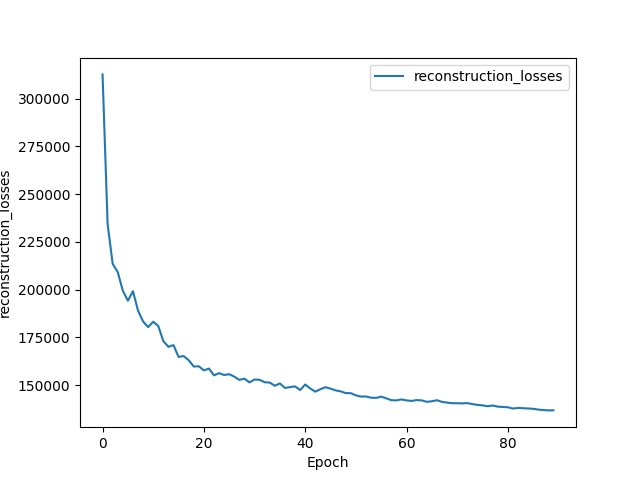
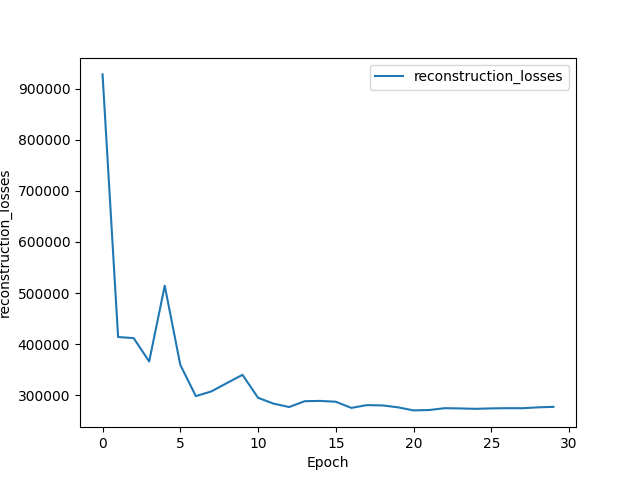
version with perceptual loss

diff --git a/source/functions/trainer.py b/source/functions/trainer.py
@@ -5,15 +5,16 @@ import time
 from torch.nn.parallel import DistributedDataParallel as DDP
 import matplotlib.pyplot as plt
 from torch.distributed import ReduceOp, reduce
-from .losses import beta_gaussian_kldiv, mse_loss,PerceptualLoss
+from .losses import gaussian_kldiv, mse_loss,PerceptualLoss
 
 class Trainer():
-    def __init__(self,data_loader,model,optimizer,scheduler,device,is_parallel=False,
+    def __init__(self,data_loader,model,optimizer,scheduler,beta_scheduler,device,is_parallel=False,
                  resume_from_checkpoint=False,checkpoint=None,output_path=None):
         self.data_loader=data_loader
         self.model=model
         self.optimizer=optimizer
         self.scheduler=scheduler
+        self.beta_scheduler=beta_scheduler
         self.device=device
         self.is_parallel=is_parallel
         self.checkpoint=checkpoint
@@ -55,12 +56,13 @@ class Trainer():
 
     def train(self,EPOCHS):
         for epoch in range(self.last_epoch,self.last_epoch+EPOCHS):
+            beta=self.beta_scheduler.get_beta(epoch)
             self.model.train()
-            self.train_epoch()
+            self.train_epoch(beta)
 
             self.model.eval()
             with torch.no_grad():
-                self.evaluate()
+                self.evaluate(beta)
 
                 if self.is_master_rank and (epoch%10==0 or epoch==self.last_epoch or epoch==self.last_epoch+EPOCHS-1):
                     self.record_losses(epoch)
@@ -72,21 +74,20 @@ class Trainer():
             self.save_checkpoint(EPOCHS)
                 
 
-    def train_epoch(self):
+    def train_epoch(self,beta):
         for _,data_point in enumerate(self.data_loader):
             image=data_point[0].to(self.device)
             label=data_point[1].to(self.device)
 
             generated_image,mu,log_var=self.model(image,label)
-            loss=mse_loss(image,generated_image)+beta_gaussian_kldiv(mu,log_var)+0.01*self.perceptual_loss_function(image,generated_image)
-
+            loss=mse_loss(image,generated_image)+beta*gaussian_kldiv(mu,log_var)+0.001*self.perceptual_loss_function(image,generated_image)
             self.optimizer.zero_grad()
 
             loss.backward()
 
             self.optimizer.step()
     
-    def evaluate(self):
+    def evaluate(self,beta):
         reconstruction_loss=0
         kl_divergence=0
         perceptual_loss=0
@@ -98,9 +99,9 @@ class Trainer():
             generated_image,mu,log_var=self.model(image,label)
 
             reconstruction_loss+=mse_loss(image,generated_image)
-            kl_divergence+=beta_gaussian_kldiv(mu,log_var)
+            kl_divergence+=gaussian_kldiv(mu,log_var)
             perceptual_loss+=self.perceptual_loss_function(image,generated_image)
-        
+
         avg_reconstruction_loss=reconstruction_loss/self.num_batches
         avg_kl_divergence=kl_divergence/self.num_batches
         avg_perceptual_loss=perceptual_loss/self.num_batches
@@ -114,8 +115,7 @@ class Trainer():
             self.reconstruction_losses.append(avg_reconstruction_loss.item())
             self.kl_divergences.append(avg_kl_divergence.item())
             self.perceptual_losses.append(avg_perceptual_loss.item())
-            self.total_losses.append(self.reconstruction_losses[-1]+self.kl_divergences[-1]+0.01*self.perceptual_losses[-1])
-
+            self.total_losses.append(self.reconstruction_losses[-1]+beta*self.kl_divergences[-1]+0.001*self.perceptual_losses[-1])
 
     def save_checkpoint(self,epoch):
         state = {

diff --git a/source/train.py b/source/train.py
@@ -10,7 +10,7 @@ from functions.vae import VariationalAutoEncoder
 from functions.data_handling import prepare_data
 from functions.ddp_setup import ddp_setup
 from functions.data_handling import prepare_data
-from functions.schedulers import lr_scheduler
+from functions.schedulers import lr_scheduler,BetaScheduler
 from functions.trainer import Trainer
 
 def main(device,world_size:int):
@@ -27,8 +27,10 @@ def main(device,world_size:int):
     parser.add_argument('--initial_learning_rate',type=float,default=1e-4)
     parser.add_argument('--steady_learning_rate',type=float,default=0.002)
     parser.add_argument('--final_learning_rate',type=float,default=1e-6)
+    parser.add_argument('--initial_beta',type=float,default=0)
+    parser.add_argument('--final_beta',type=float,default=1)
     parser.add_argument('--epochs',type=int,default=100)
-    parser.add_argument('--batch_size',type=int,default=512)
+    parser.add_argument('--batch_size',type=int,default=1024)
     parser.add_argument('--latent_dim',type=int,default=256)
 
     args = parser.parse_args()
@@ -40,11 +42,13 @@ def main(device,world_size:int):
     INITIAL_LR = args.initial_learning_rate
     STEADY_LR = args.steady_learning_rate
     FINAL_LR = args.final_learning_rate
+    INITIAL_BETA = args.initial_beta
+    FINAL_BETA = args.final_beta
     EPOCHS = args.epochs
     BATCH_SIZE = args.batch_size
     LATENT_DIM = args.latent_dim
 
-    RESUME_FROM_CHECKPOINT = FRACTION==TOTAL_FRACTIONS
+    RESUME_FROM_CHECKPOINT = FRACTION!=1
 
     data_loader= prepare_data(DATA_PATH,world_size, BATCH_SIZE,IS_PARALLEL)
 
@@ -69,12 +73,12 @@ def main(device,world_size:int):
         checkpoint=None
 
     optimizer,scheduler=lr_scheduler(optimizer=optimizer,initial_lr=INITIAL_LR,steady_lr=STEADY_LR,final_lr=FINAL_LR,total_epochs=EPOCHS*TOTAL_FRACTIONS)
-
+    beta_scheduler=BetaScheduler(INITIAL_BETA,FINAL_BETA,EPOCHS*TOTAL_FRACTIONS)
     if RESUME_FROM_CHECKPOINT:
         optimizer.load_state_dict(checkpoint['optimizer_state_dict'])
         scheduler.load_state_dict(checkpoint['scheduler_state_dict'])
     
-    trainer=Trainer(data_loader,model,optimizer,scheduler,device,IS_PARALLEL,RESUME_FROM_CHECKPOINT,checkpoint,OUTPUT_PATH)
+    trainer=Trainer(data_loader,model,optimizer,scheduler,beta_scheduler,device,IS_PARALLEL,RESUME_FROM_CHECKPOINT,checkpoint,OUTPUT_PATH)
 
     trainer.train(EPOCHS)
     if IS_PARALLEL:

diff --git a/source/functions/losses.py b/source/functions/losses.py
@@ -3,18 +3,12 @@ import torch.nn as nn
 import torch.nn.functional as F
 from torchvision.models import resnet18
 
-
-@torch.jit.script
-def pixelwise_bce_sum(input: torch.Tensor,target: torch.Tensor) -> torch.Tensor:
-    return F.binary_cross_entropy(input,target,reduction="sum")
-
 def mse_loss(input: torch.Tensor,target: torch.Tensor)-> torch.Tensor:
     return F.mse_loss(input,target,reduction='sum')
 
 @torch.jit.script
-def beta_gaussian_kldiv(mu: torch.Tensor,sigma: torch.Tensor)-> torch.Tensor:
+def gaussian_kldiv(mu: torch.Tensor,sigma: torch.Tensor)-> torch.Tensor:
     return 0.5*(torch.pow(mu,2)+torch.exp(sigma)-sigma-1).sum()
-
 
 class PerceptualLoss(nn.Module):
     def __init__(self):

diff --git a/source/functions/schedulers.py b/source/functions/schedulers.py
@@ -31,5 +31,10 @@ def lr_scheduler(optimizer:torch.optim.Optimizer,
     
     return optimizer,scheduler
 
-def beta_scheduler(epoch:int,tot_epochs:int):
-    return epoch*2/tot_epochs
+class BetaScheduler():
+    def __init__(self,initial_beta,final_beta,total_epochs):
+        self.initial_beta=initial_beta
+        self.factor=(final_beta-initial_beta)/total_epochs
+
+    def get_beta(self,epoch):
+        return self.initial_beta+self.factor*epoch
